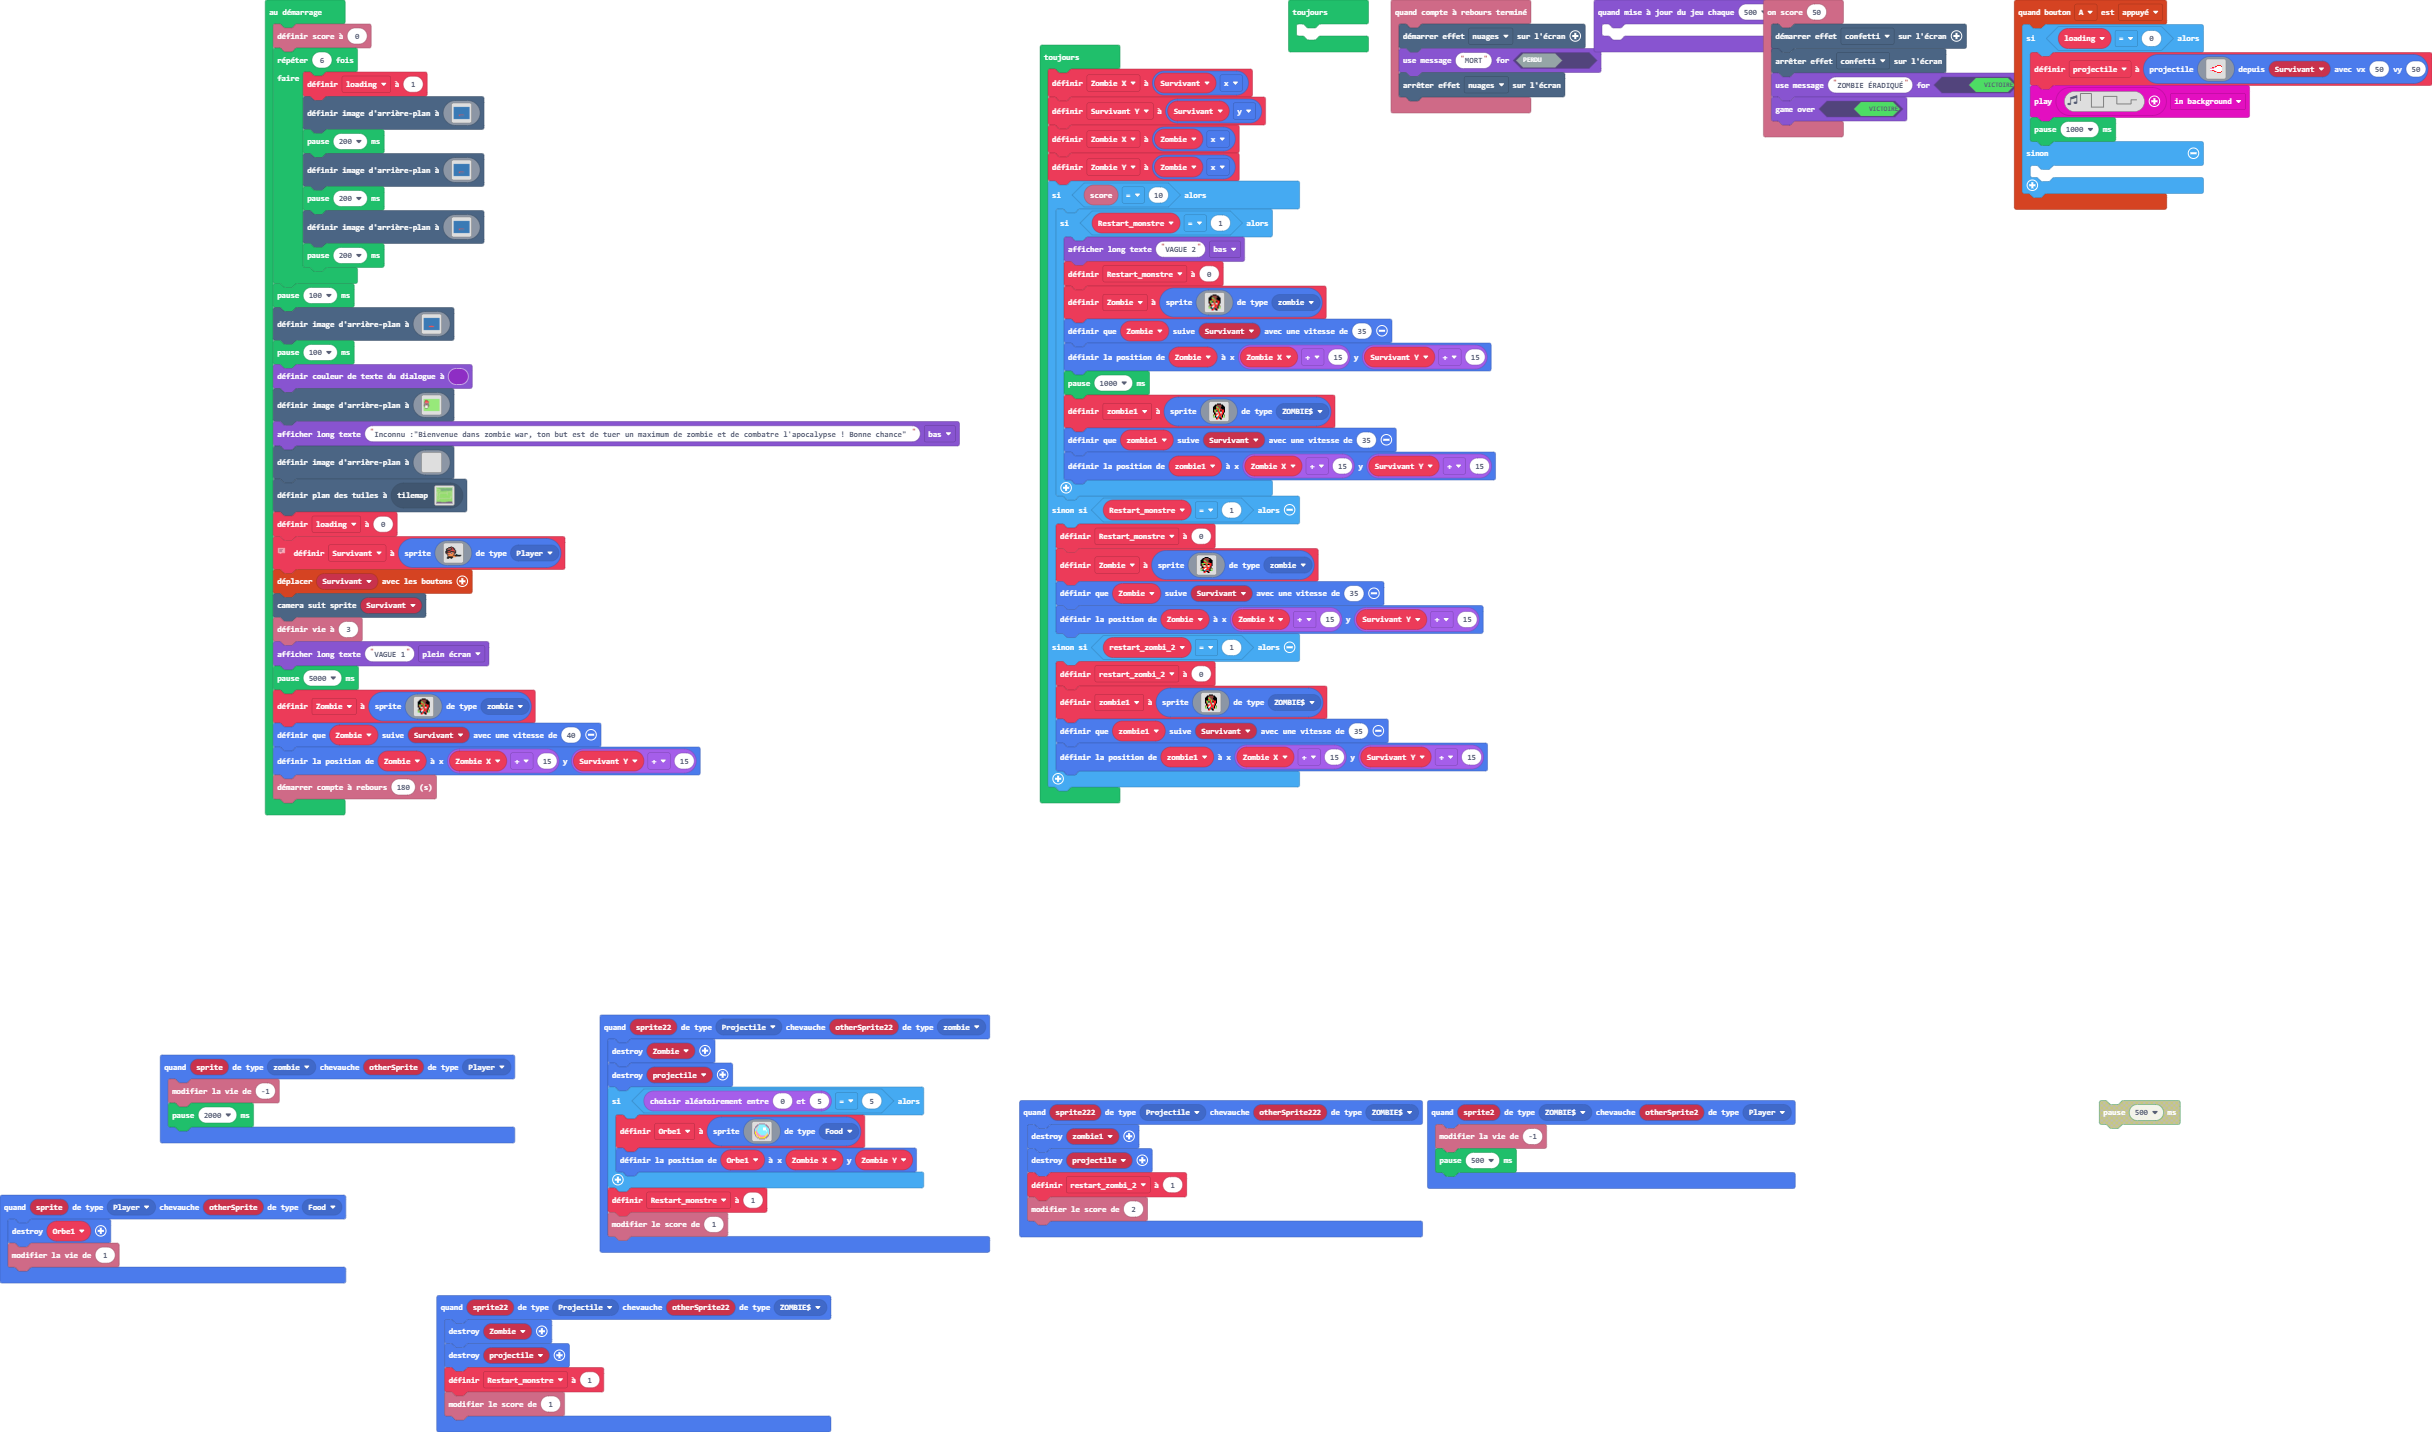
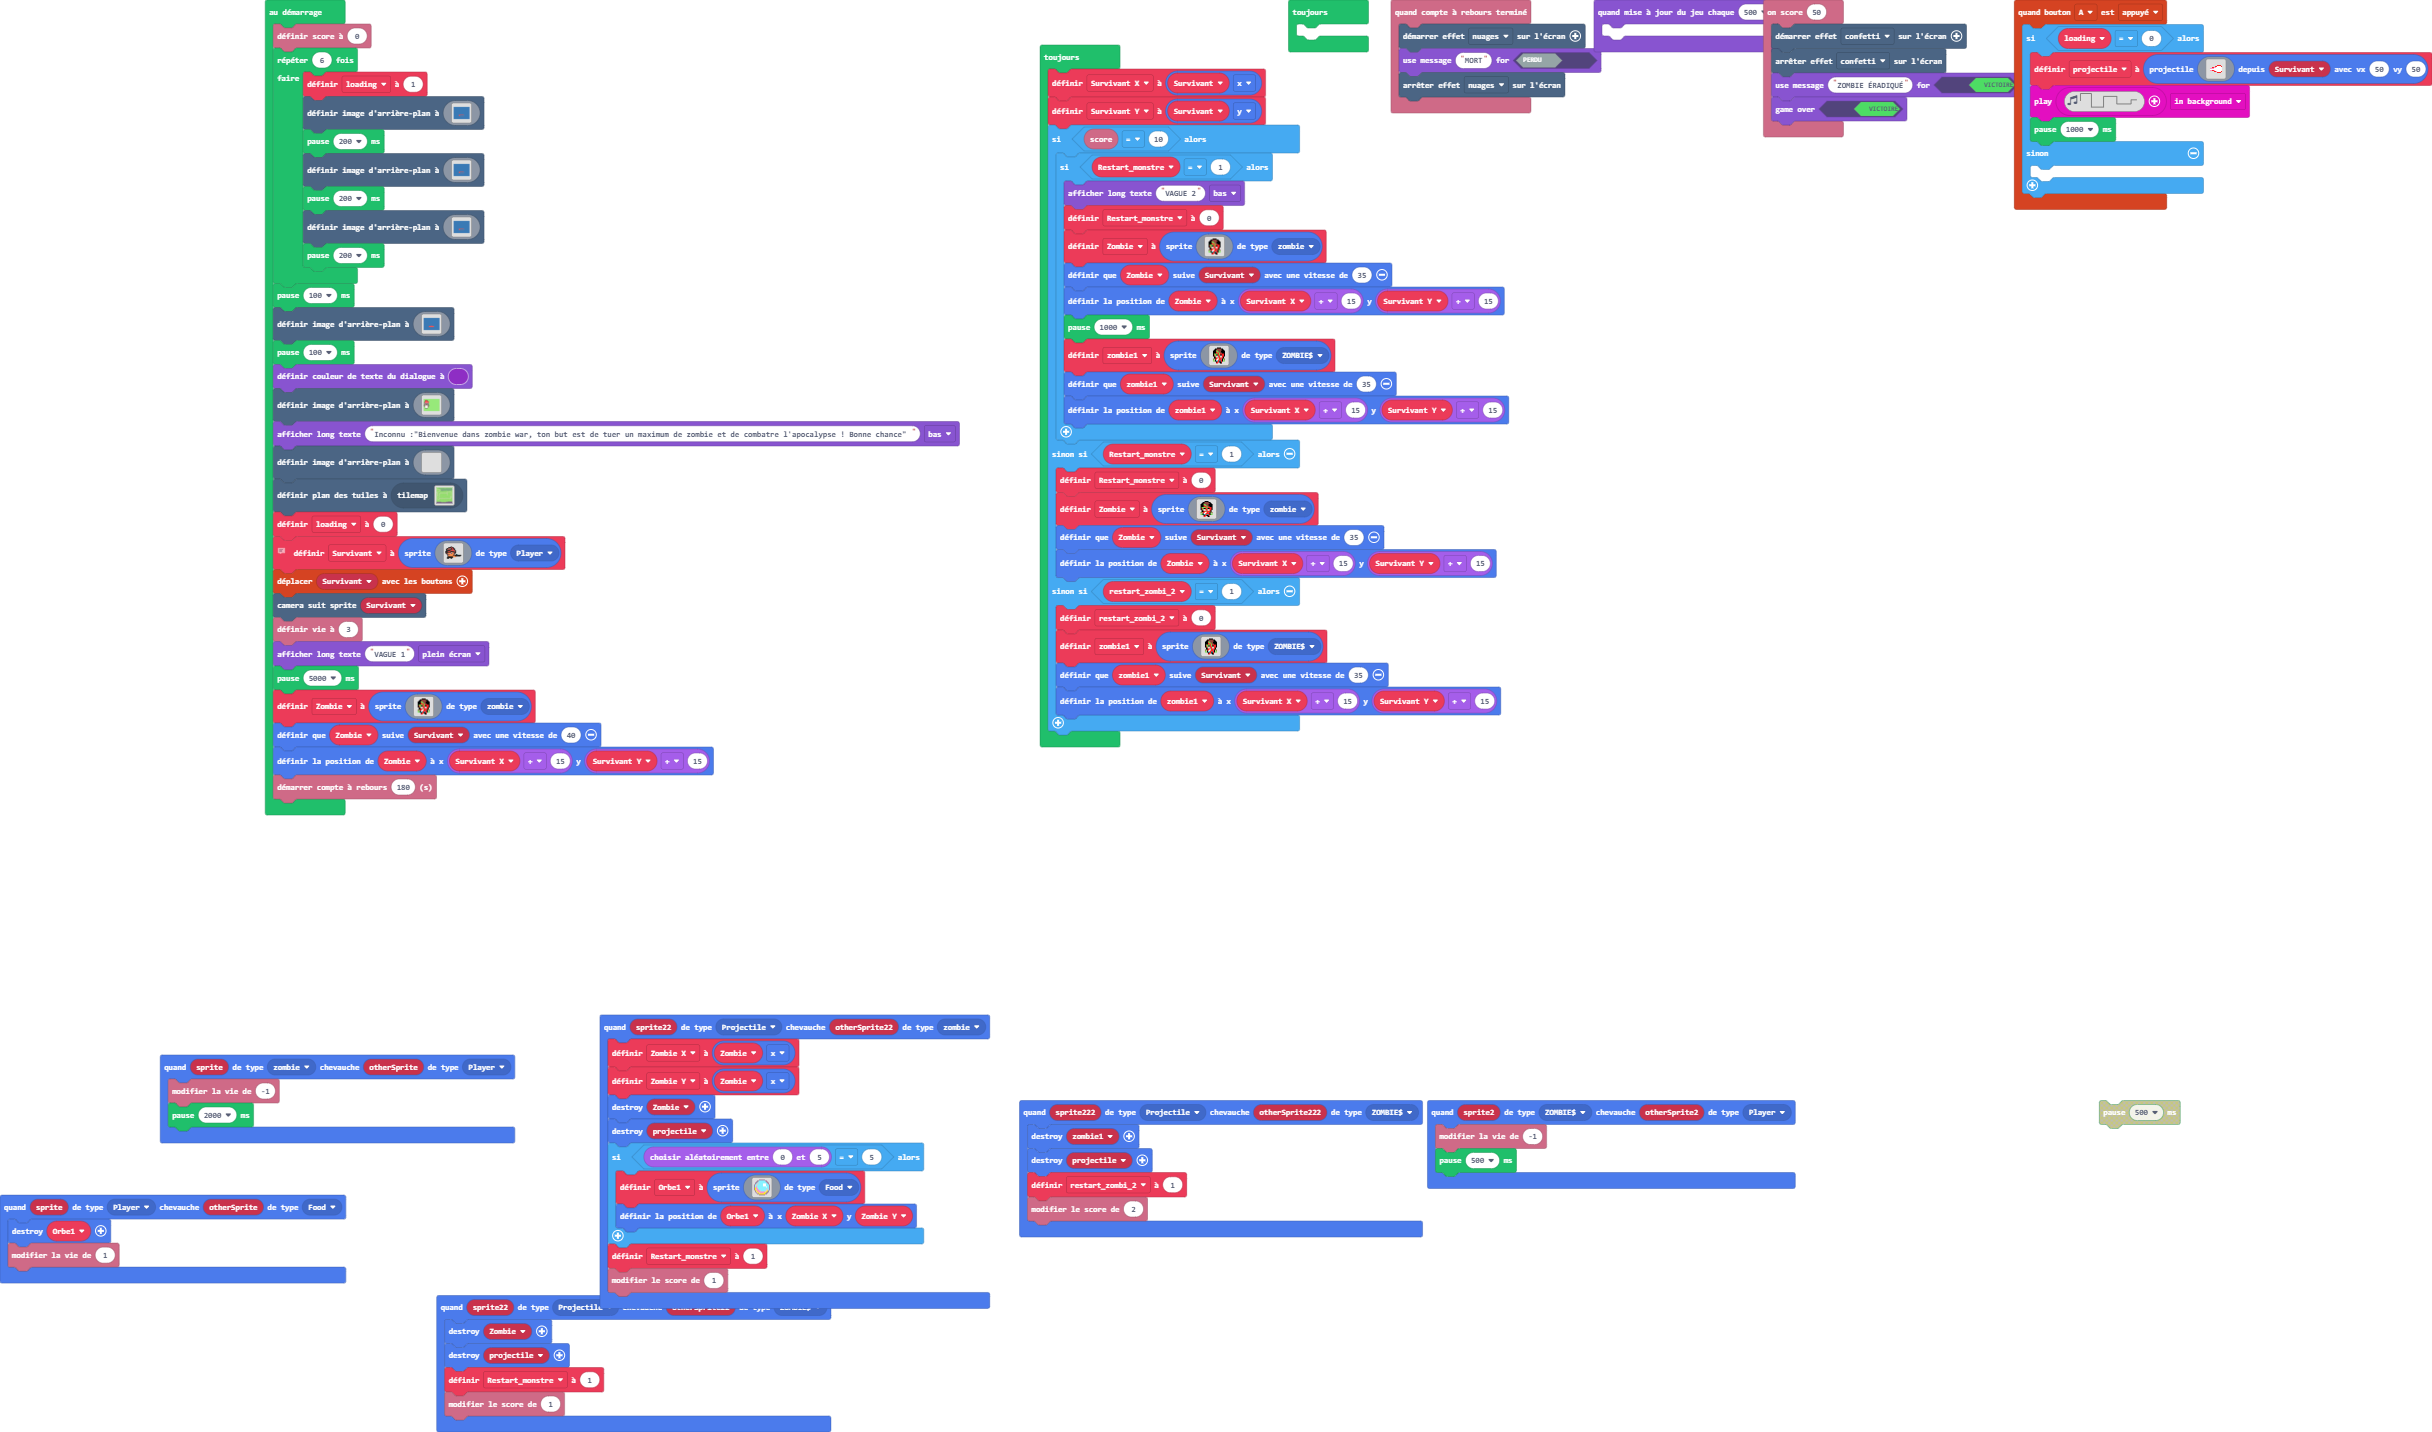
Mise à jour main.blocks, main.ts

Changed region(s): [[0.4062, 0.0307, 0.625, 0.5838], [0.25, 0.7067, 0.4062, 0.9218], [0.1875, 0.5223, 0.3125, 0.5531]]

diff --git a/main.ts b/main.ts
@@ -7,6 +7,8 @@ sprites.onOverlap(SpriteKind.zombie, SpriteKind.Player, function (sprite, otherS
     pause(2000)
 })
 sprites.onOverlap(SpriteKind.Projectile, SpriteKind.zombie, function (sprite22, otherSprite22) {
+    Zombie_X = Zombie.x
+    Zombie_Y = Zombie.x
     sprites.destroy(Zombie)
     sprites.destroy(projectile)
     if (randint(0, 5) == 5) {
@@ -93,11 +95,12 @@ sprites.onOverlap(SpriteKind.Player, SpriteKind.Food, function (sprite, otherSpr
 let restart_zombi_2 = 0
 let zombie1: Sprite = null
 let Restart_monstre = 0
-let Zombie_Y = 0
 let Orbe1: Sprite = null
 let projectile: Sprite = null
-let Survivant_Y = 0
+let Zombie_Y = 0
 let Zombie_X = 0
+let Survivant_Y = 0
+let Survivant_X = 0
 let Zombie: Sprite = null
 let Survivant: Sprite = null
 let loading = 0
@@ -872,16 +875,14 @@ Zombie = sprites.create(img`
     . . . 2 2 . . f f . . . 
     `, SpriteKind.zombie)
 Zombie.follow(Survivant, 40)
-Zombie.setPosition(Zombie_X + 15, Survivant_Y + 15)
+Zombie.setPosition(Survivant_X + 15, Survivant_Y + 15)
 info.startCountdown(180)
 forever(function () {
 	
 })
 forever(function () {
-    Zombie_X = Survivant.x
+    Survivant_X = Survivant.x
     Survivant_Y = Survivant.y
-    Zombie_X = Zombie.x
-    Zombie_Y = Zombie.x
     if (info.score() == 10) {
         if (Restart_monstre == 1) {
             game.showLongText("VAGUE 2", DialogLayout.Bottom)
@@ -905,7 +906,7 @@ forever(function () {
                 . . . 2 2 . . f f . . . 
                 `, SpriteKind.zombie)
             Zombie.follow(Survivant, 35)
-            Zombie.setPosition(Zombie_X + 15, Survivant_Y + 15)
+            Zombie.setPosition(Survivant_X + 15, Survivant_Y + 15)
             pause(1000)
             zombie1 = sprites.create(img`
                 . . . . f f f f . . . . 
@@ -926,7 +927,7 @@ forever(function () {
                 . . . 2 2 . . f f . . . 
                 `, SpriteKind.ZOMBIE$)
             zombie1.follow(Survivant, 35)
-            zombie1.setPosition(Zombie_X + 15, Survivant_Y + 15)
+            zombie1.setPosition(Survivant_X + 15, Survivant_Y + 15)
         }
     } else if (Restart_monstre == 1) {
         Restart_monstre = 0
@@ -949,7 +950,7 @@ forever(function () {
             . . . 2 2 . . f f . . . 
             `, SpriteKind.zombie)
         Zombie.follow(Survivant, 35)
-        Zombie.setPosition(Zombie_X + 15, Survivant_Y + 15)
+        Zombie.setPosition(Survivant_X + 15, Survivant_Y + 15)
     } else if (restart_zombi_2 == 1) {
         restart_zombi_2 = 0
         zombie1 = sprites.create(img`
@@ -971,7 +972,7 @@ forever(function () {
             . . . 2 2 . . f f . . . 
             `, SpriteKind.ZOMBIE$)
         zombie1.follow(Survivant, 35)
-        zombie1.setPosition(Zombie_X + 15, Survivant_Y + 15)
+        zombie1.setPosition(Survivant_X + 15, Survivant_Y + 15)
     }
 })
 game.onUpdateInterval(500, function () {
